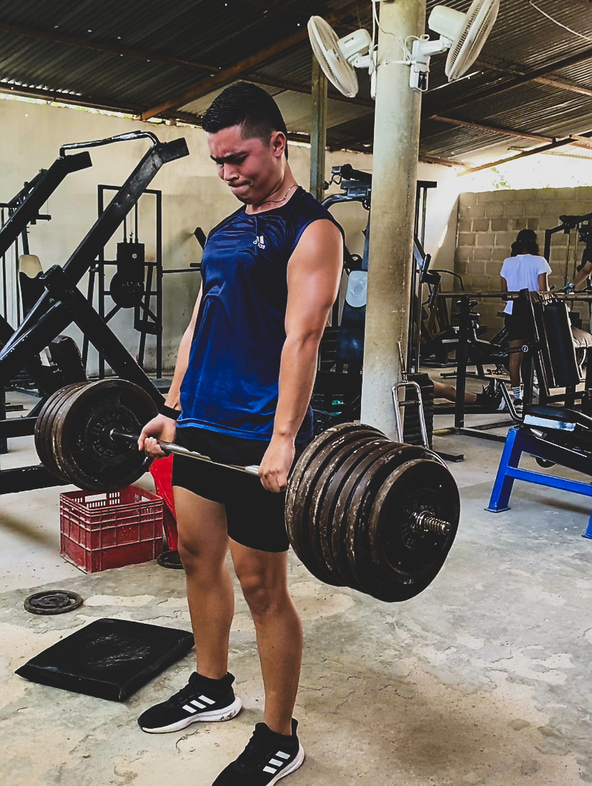
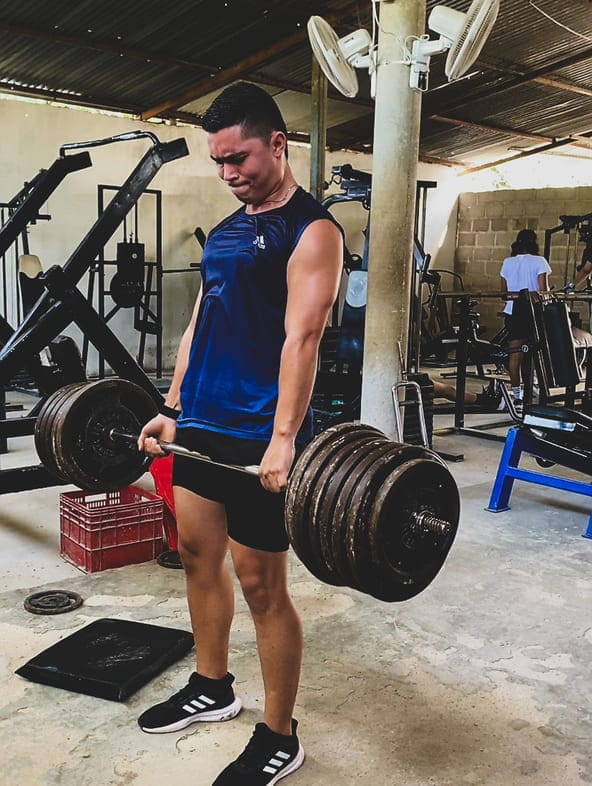
Images replaced and performance improved

diff --git a/components/trainig-section.tsx b/components/trainig-section.tsx
@@ -39,7 +39,7 @@ const TrainingSection = () => {
             <SwiperSlide>
               <div className="relative mx-auto w-full h-[70vh]">
                 <Image
-                  src="/images/training-5.jpg"
+                  src="/images/training-1.jpg"
                   alt="Image Training"
                   fill
                   className="object-cover rounded-xl shadow-xl"
@@ -52,7 +52,7 @@ const TrainingSection = () => {
                   src="/images/training-2.jpg"
                   alt="Image Training"
                   fill
-                  className="object-cover rounded-xl shadow-xl opacity-50"
+                  className="object-cover rounded-xl shadow-xl"
                 />
               </div>
             </SwiperSlide>
@@ -62,7 +62,7 @@ const TrainingSection = () => {
                   src="/images/training-3.jpg"
                   alt="Image Training"
                   fill
-                  className="object-cover rounded-xl shadow-xl opacity-50"
+                  className="object-cover rounded-xl shadow-xl"
                 />
               </div>
             </SwiperSlide>
@@ -72,17 +72,17 @@ const TrainingSection = () => {
                   src="/images/training-4.jpg"
                   alt="Image Training"
                   fill
-                  className="object-cover rounded-xl shadow-xl opacity-50"
+                  className="object-cover rounded-xl shadow-xl"
                 />
               </div>
             </SwiperSlide>
             <SwiperSlide>
               <div className="relative mx-auto w-full h-[70vh]">
                 <Image
-                  src="/images/training-1.jpg"
+                  src="/images/training-5.jpg"
                   alt="Image Training"
                   fill
-                  className="object-cover rounded-xl shadow-xl opacity-50"
+                  className="object-cover rounded-xl shadow-xl"
                 />
               </div>
             </SwiperSlide>

diff --git a/components/ui/item-plan.tsx b/components/ui/item-plan.tsx
@@ -1,18 +1,21 @@
 import ButtonPrimary from "@/components/ui/button-primary";
 import { cn } from "@/libs/utils";
 import { FC } from "react";
+import ItemAbout from "./ul-item-about";
 
 interface ItemPlanProps {
   name: string;
   duration: number;
-  price: number;
-  priceMonth: number;
+  description: string;
+  price: string;
+  priceMonth: string;
   active?: boolean;
 }
 
 const ItemPlan: FC<ItemPlanProps> = ({
   name,
   duration,
+  description,
   price,
   priceMonth,
   active,
@@ -20,19 +23,20 @@ const ItemPlan: FC<ItemPlanProps> = ({
   return (
     <div
       className={cn(
-        "flex flex-col items-center gap-y-10 w-full bg-gray-light p-8 rounded-lg card-container transition-transform ease-in-out duration-300 transform hover:translate-y-[-10px] bg-opacity-20 backdrop-filter backdrop-blur-lg",
+        "flex flex-col items-center gap-y-10 w-full bg-gray-light p-8 rounded-lg transition-transform ease-in-out duration-500 transform hover:translate-y-[-10px] hover:shadow-custom bg-opacity-20 backdrop-filter backdrop-blur-lg",
         active && "relative border-2 border-primary p-10 gap-12"
       )}>
       {active && (
         <div className="absolute bg-primary py-2 px-4 text-white -top-6 left-1/2 -translate-x-1/2 ">
-          <h5>Recommended</h5>
+          <h5>Más solicitado</h5>
         </div>
       )}
 
       <h3 className="text-3xl text-stone-200 font-semibold"> {name} </h3>
-      <time>{duration} Month Plan</time>
-      <p className="text-2xl font-semibold text-stone-100">$ {price} </p>
-      <p> {priceMonth} /Month</p>
+      <p className="text-center">{description}</p>
+      <time>{duration} / Meses </time>
+      <p className="text-2xl font-semibold text-stone-100">${price} </p>
+      <p> ${priceMonth} / Mes</p>
       <ButtonPrimary
         type="button"
         text="Select plan"

diff --git a/components/about/sections/section-image.tsx b/components/about/sections/section-image.tsx
@@ -6,17 +6,23 @@ const SectionImage = () => {
       <div className="lg:absolute -top-52 left-4">
         <article className="relative w-[80vw] lg:w-44 h-56">
           <Image
-            src="/images/trainer-1.png"
+            src="/images/me.jpg"
             alt="Image Trainer"
             fill
-            className="object-cover rounded-lg shadow-xl"
+            className="object-cover hidden sm:block rounded-lg shadow-xl"
+          />
+          <Image
+            src="/images/me-mobile.jpg"
+            alt="Image Trainer"
+            fill
+            className="object-cover block sm:hidden rounded-lg shadow-xl"
           />
         </article>
       </div>
       <div className="lg:absolute top-0 right-32">
         <article className="relative w-[80vw] lg:w-44 h-56">
           <Image
-            src="/images/trainer-2.png"
+            src="/images/training-5.jpg"
             alt="Image Trainer"
             fill
             className="object-cover rounded-lg shadow-xl"
@@ -26,7 +32,7 @@ const SectionImage = () => {
       <div className="lg:absolute top-12 left-8">
         <article className="relative w-[80vw] lg:w-56 h-44">
           <Image
-            src="/images/trainer-3.png"
+            src="/images/training-6.jpg"
             alt="Image Trainer"
             fill
             className="object-cover rounded-lg shadow-xl "
@@ -36,7 +42,7 @@ const SectionImage = () => {
       <div className="lg:absolute -top-52 right-36">
         <article className="relative w-[80vw] lg:w-56 h-44">
           <Image
-            src="/images/trainer-4.png"
+            src="/images/training-7.jpg"
             alt="Image Trainer"
             fill
             className="object-cover rounded-lg shadow-xl"

diff --git a/components/plans.tsx b/components/plans.tsx
@@ -10,19 +10,27 @@ const Plans = () => {
       <Container>
         <Title title="Subscribe to" titleColor="Plans" />
         <div className="flex flex-col md:flex-row items-center justify-between gap-8">
-          <ItemPlan name="Standar" duration={6} price={4800} priceMonth={800} />
           <ItemPlan
-            name="Fitness"
+            name="Básico"
+            duration={1}
+            description=""
+            price={"150.000"}
+            priceMonth={"150.000"}
+          />
+          <ItemPlan
+            name="Intermedio"
             duration={12}
-            price={7200}
-            priceMonth={600}
+            description=""
+            price={"400.000"}
+            priceMonth={"133.000"}
             active
           />
           <ItemPlan
-            name="Entreprise"
+            name="Premium"
             duration={24}
-            price={12000}
-            priceMonth={500}
+            description=""
+            price={"1.000.000"}
+            priceMonth={"83.000"}
           />
         </div>
       </Container>

diff --git a/tailwind.config.ts b/tailwind.config.ts
@@ -12,9 +12,13 @@ const config: Config = {
         primary: "#E75325",
         "gray-light": "#414141",
       },
+      boxShadow: {
+        custom: "0 25px 50px -12px rgba(255, 245, 235, 0.1)",
+      },
     },
   },
   important: true,
   plugins: [],
 };
+
 export default config;
